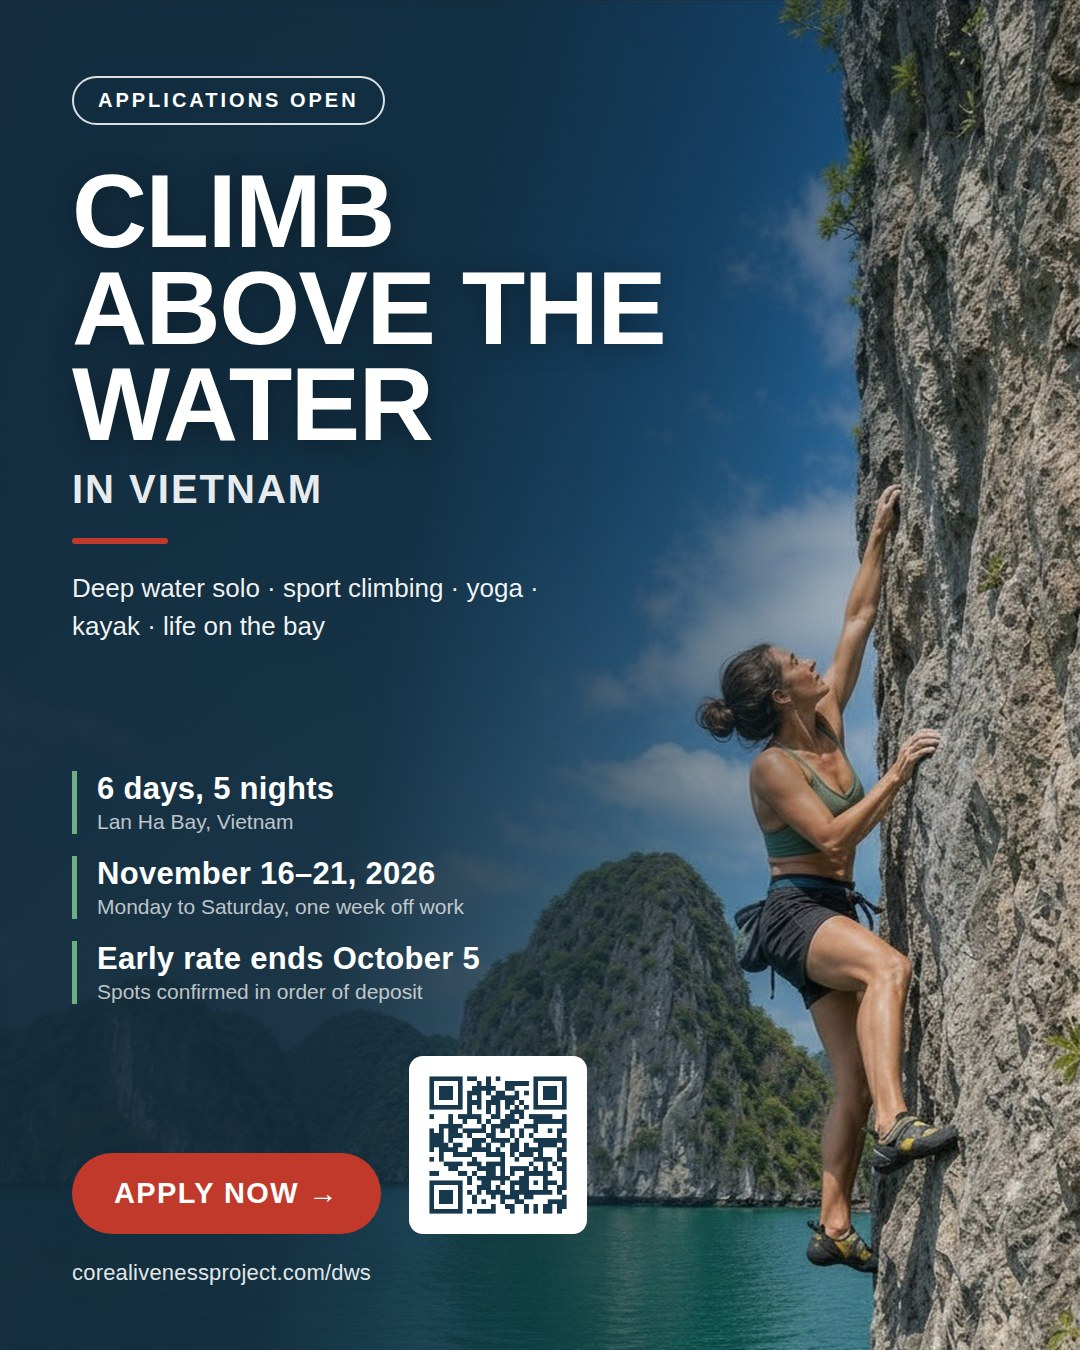
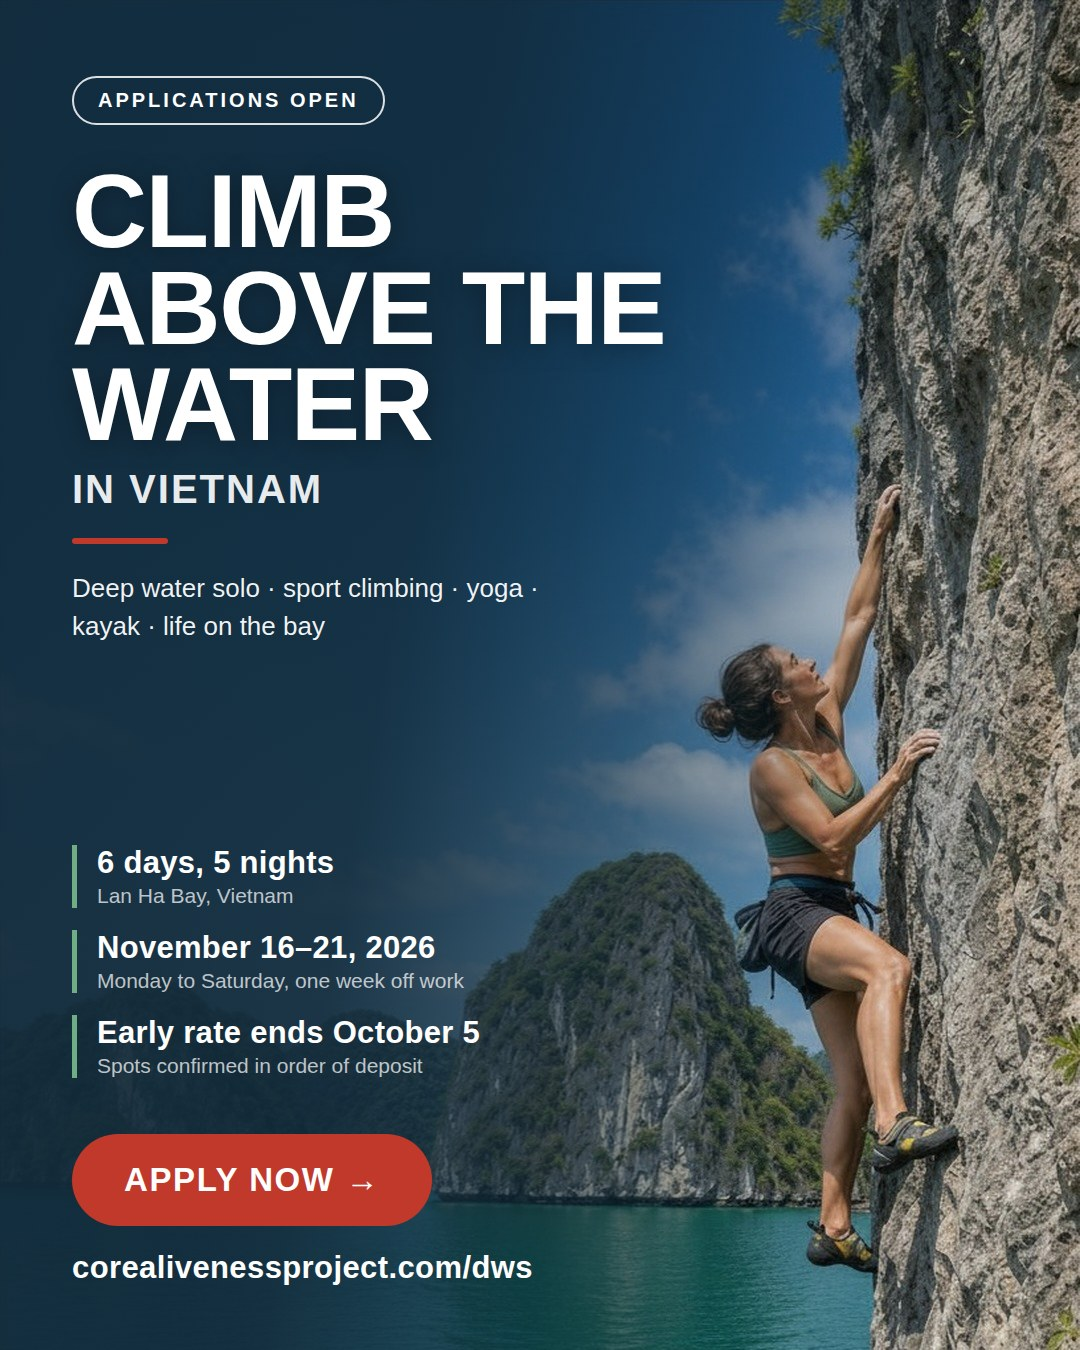
Retirer le QR du flyer, l'espace revient a l'URL
Ce flyer vit dans des groupes Facebook et une diffusion WhatsApp. Personne ne
scanne un code sur le telephone qu'il tient deja : le QR n'avait aucune
fonction, il prenait la place utile.

L'URL passe de 22 a 31 px en gras et devient l'element de rappel du bas, le
bouton grossit. corealivenessproject.com/dws se retient et se retape, ce
qu'un QR ne fait pas.

La redirection /dws reste : elle sert maintenant au texte affiche plutot qu'au
code, et elle envoie toujours vers la version anglaise de la page.

Claude-Session: https://claude.ai/code/session_01CWLniJrgA9TGD2SggbrWxy

Changed region(s): [[0.0611, 0.56, 0.55, 0.9644]]

diff --git a/cap-interne-r7k3wz/flyer-en.html b/cap-interne-r7k3wz/flyer-en.html
@@ -9,9 +9,10 @@
   relancer le script Playwright du depot. Le fond et le QR sont encodes en
   base64 dans le fichier, donc il est autonome.
 
-  LE QR ET L'URL pointent vers /dws, une redirection dediee vers la version anglaise.
-  URL courte volontairement : un QR long ne se decode plus une fois l'image
-  compressee et affichee en petit dans WhatsApp.
+  PAS DE QR CODE, volontairement. Ce flyer vit dans Facebook et WhatsApp :
+  personne ne scanne un code sur le telephone qu'il tient deja. L'espace va a
+  l'URL, qui se retient et se retape. /dws est une redirection dediee vers la
+  version anglaise de la page.
 -->
 <html lang="en"><head><meta charset="utf-8"><style>
   *{margin:0;padding:0;box-sizing:border-box}
@@ -35,12 +36,10 @@
   .fact{border-left:5px solid #6fae84;padding-left:20px;}
   .fact b{display:block;color:#fff;font-size:31px;font-weight:700;letter-spacing:.3px;}
   .fact span{display:block;color:rgba(255,255,255,.72);font-size:21px;margin-top:3px;}
-  .foot{margin-top:44px;display:flex;align-items:flex-end;gap:28px;}
-  .cta{background:#c0392b;color:#fff;border-radius:99px;padding:24px 42px;
-       font-size:29px;font-weight:700;letter-spacing:1.4px;white-space:nowrap;}
-  .qr{width:178px;height:178px;border-radius:14px;background:#fff;padding:11px;}
-  .qr img{width:100%;height:100%;display:block;}
-  .url{margin-top:26px;color:rgba(255,255,255,.9);font-size:22px;letter-spacing:.2px;}
+  .foot{margin-top:48px;display:flex;align-items:flex-end;}
+  .cta{background:#c0392b;color:#fff;border-radius:99px;padding:27px 52px;
+       font-size:33px;font-weight:700;letter-spacing:1.6px;white-space:nowrap;}
+  .url{margin-top:24px;color:#fff;font-size:31px;font-weight:700;letter-spacing:.4px;}
 </style></head><body>
   <div class="scrim"></div>
   <div class="wrap">
@@ -56,7 +55,6 @@
     </div>
     <div class="foot">
       <div class="cta">APPLY NOW &rarr;</div>
[1 lines of base64/hex data omitted]
     </div>
     <div class="url">corealivenessproject.com/dws</div>
   </div>
